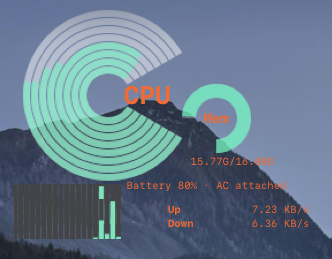
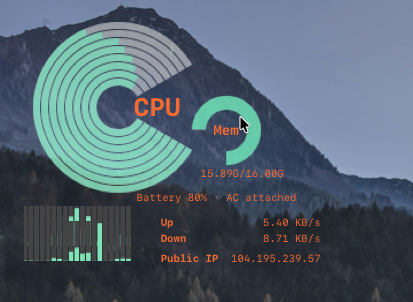
Update README preview with final widget screenshot
Replace assets/performance-graph-widget.png and align copy with Up/Down/Public IP layout.

Made-with: Cursor

diff --git a/README.md b/README.md
@@ -4,14 +4,14 @@ Standalone GeekTool web widget project for:
 
 - CPU ring graph
 - Memory ring graph
-- Network mini bar graphs
+- Network mini bar graphs (Up / Down / Public IP)
 - Battery status
 
 This project is intentionally separated from `Geektool-System-Perfomance-geeklet`.
 
 ## Preview
 
-![GeekTool system performance graph widget](assets/performance-graph-widget.png)
+![GeekTool web widget: CPU and memory rings, battery, network bar charts, and Up / Down / Public IP](assets/performance-graph-widget.png)
 
 ## Requirements
 
@@ -109,7 +109,7 @@ http://127.0.0.1:26499
   - Uses `systeminformation` first.
   - Falls back to `osx-cpu-temp` on macOS if available.
 - If no valid temp is available, it stays hidden.
-- **External IP** (shown under Up/Down) uses the same lookup as:
+- **External IP** (Public IP row under Down) uses the same lookup as:
   - `dig +short myip.opendns.com @resolver1.opendns.com`
   - macOS includes `dig` at `/usr/bin/dig` in most setups.
   - Result is cached for **5 minutes** so the widget does not query OpenDNS on every refresh.
